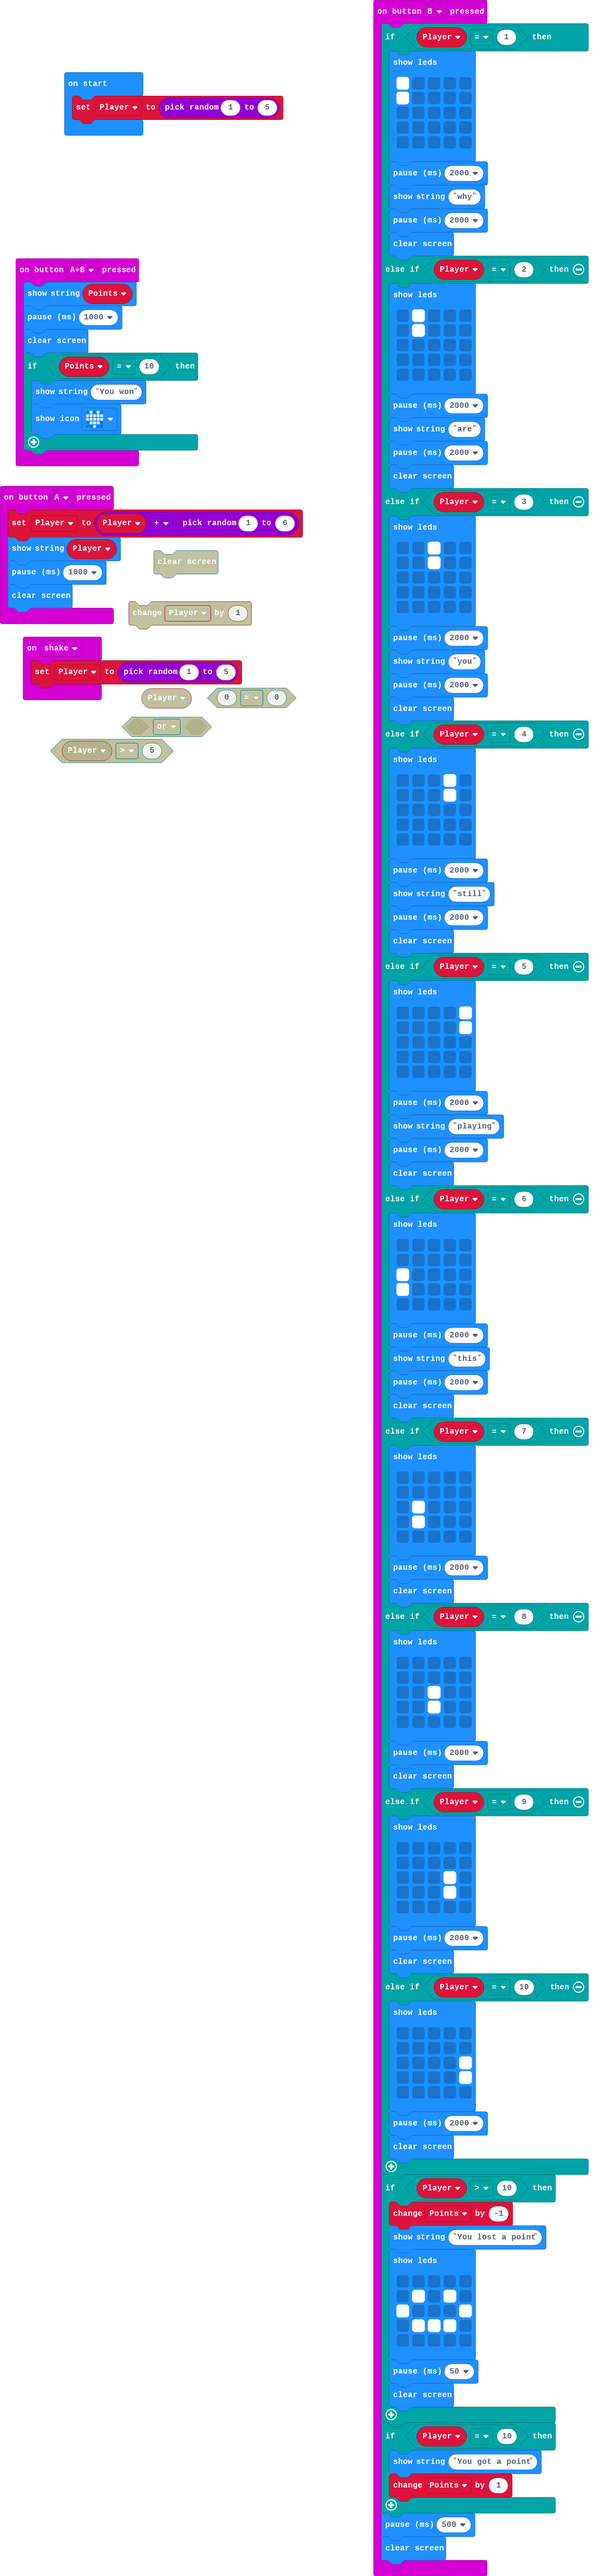
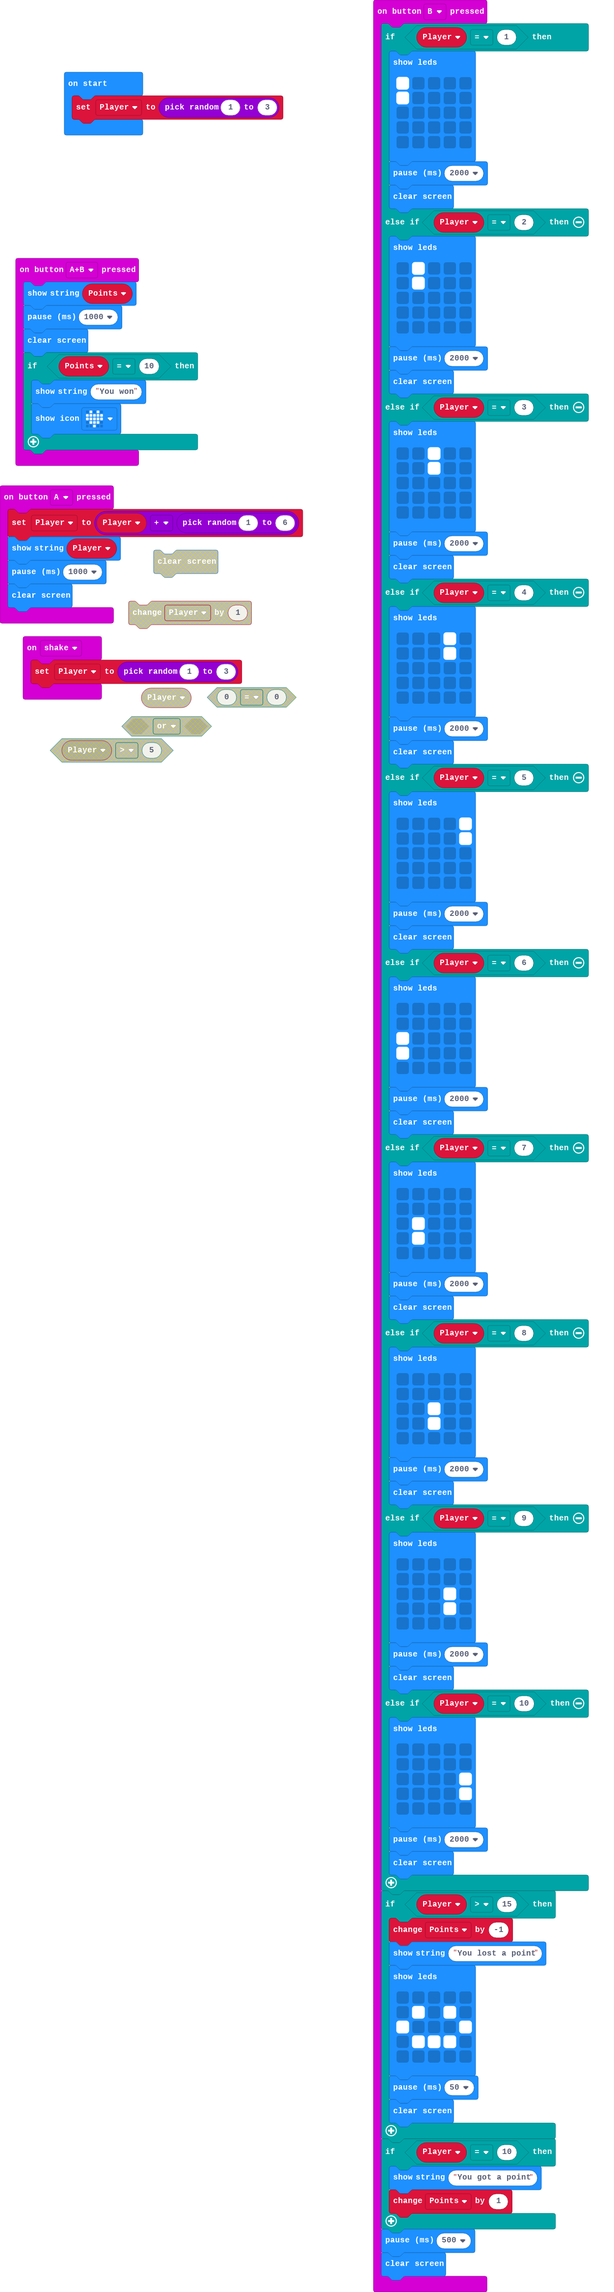
Update main.blocks, main.ts

Changed region(s): [[0.6235, 0.0, 0.9664, 1.0], [0.0, 0.0932, 0.4988, 0.3418], [0.0935, 0.0, 0.4676, 0.0621]]

diff --git a/main.ts b/main.ts
@@ -23,8 +23,6 @@ input.onButtonPressed(Button.B, function () {
             . . . . .
             `)
         basic.pause(2000)
-        basic.showString("why")
-        basic.pause(2000)
         basic.clearScreen()
     } else if (Player == 2) {
         basic.showLeds(`
@@ -34,8 +32,6 @@ input.onButtonPressed(Button.B, function () {
             . . . . .
             . . . . .
             `)
-        basic.pause(2000)
-        basic.showString("are")
         basic.pause(2000)
         basic.clearScreen()
     } else if (Player == 3) {
@@ -47,8 +43,6 @@ input.onButtonPressed(Button.B, function () {
             . . . . .
             `)
         basic.pause(2000)
-        basic.showString("you")
-        basic.pause(2000)
         basic.clearScreen()
     } else if (Player == 4) {
         basic.showLeds(`
@@ -58,8 +52,6 @@ input.onButtonPressed(Button.B, function () {
             . . . . .
             . . . . .
             `)
-        basic.pause(2000)
-        basic.showString("still")
         basic.pause(2000)
         basic.clearScreen()
     } else if (Player == 5) {
@@ -71,8 +63,6 @@ input.onButtonPressed(Button.B, function () {
             . . . . .
             `)
         basic.pause(2000)
-        basic.showString("playing")
-        basic.pause(2000)
         basic.clearScreen()
     } else if (Player == 6) {
         basic.showLeds(`
@@ -82,8 +72,6 @@ input.onButtonPressed(Button.B, function () {
             # . . . .
             . . . . .
             `)
-        basic.pause(2000)
-        basic.showString("this")
         basic.pause(2000)
         basic.clearScreen()
     } else if (Player == 7) {
@@ -127,7 +115,7 @@ input.onButtonPressed(Button.B, function () {
         basic.pause(2000)
         basic.clearScreen()
     }
-    if (Player > 10) {
+    if (Player > 15) {
         Points += -1
         basic.showString("You lost a point")
         basic.showLeds(`
@@ -148,8 +136,8 @@ input.onButtonPressed(Button.B, function () {
     basic.clearScreen()
 })
 input.onGesture(Gesture.Shake, function () {
-    Player = randint(1, 5)
+    Player = randint(1, 3)
 })
 let Points = 0
 let Player = 0
-Player = randint(1, 5)
+Player = randint(1, 3)
